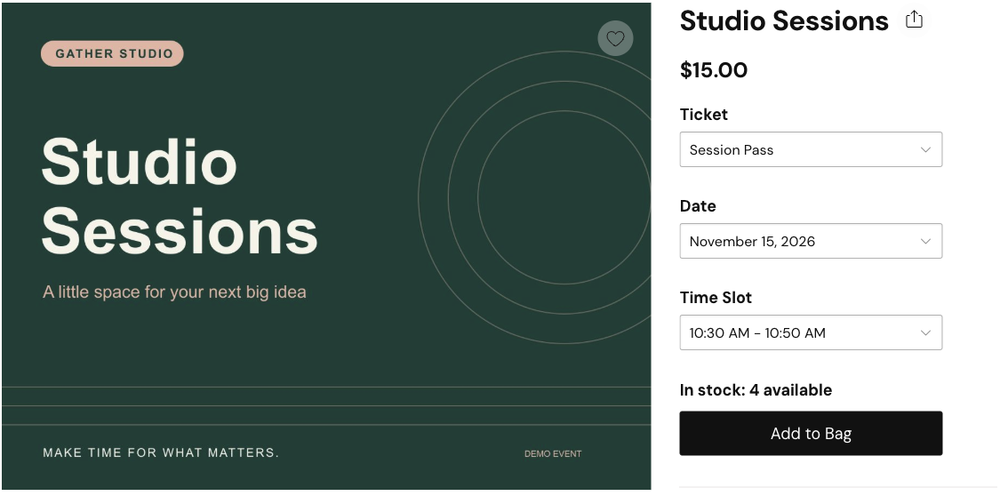
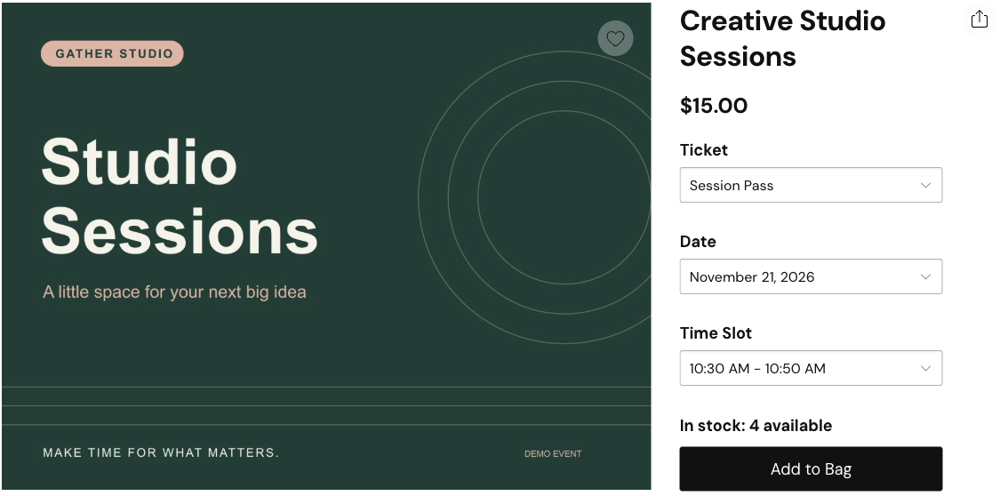
Document Ecwid time-slot setup and verified booking reruns

Changed region(s): [[0.682, 0.0907, 0.961, 0.998], [0.682, 0.0, 0.93, 0.0605], [0.961, 0.0302, 0.992, 0.0605]]

diff --git a/media-review/EXTERNAL_TODO.md b/media-review/EXTERNAL_TODO.md
@@ -75,7 +75,7 @@ Native apps, wallets, physical printing, and device workflows also require the l
 
 ## Additional dependency found during live capture
 
-The October 12 platform-onboarding follow-up refreshed Wix, Ecwid, and WordPress instructions against their integration source. The [Wix listing capture](platform-onboarding/wix-app-market-install.json) records the public install entry point. Current shared Ticket Spot screenshots replace the Wix guide's obsolete GIFs. The [WordPress evidence](platform-onboarding/wordpress-setup.json) records real plugin activation and shortcode parsing in WordPress Playground. Its editor did not complete a reliable Shortcode-block capture within the bounded attempt. Wix editor settings and a completed registration, plus Ecwid authorization, product variations, checkout, and the resulting attendees, still require authenticated demo sites. Instructions and regression checks do not establish that those external purchase flows have been completed.
+The October 12 platform-onboarding follow-up refreshed Wix, Ecwid, and WordPress instructions against their integration source. The [Wix listing capture](platform-onboarding/wix-app-market-install.json) records the public install entry point. Current shared Ticket Spot screenshots replace the Wix guide's obsolete GIFs. The [WordPress evidence](platform-onboarding/wordpress-setup.json) records real plugin activation and shortcode parsing in WordPress Playground. Its editor did not complete a reliable Shortcode-block capture within the bounded attempt. This was the initial capture gap. The October 13 authenticated demos below now cover Wix editor setup and Ecwid authorization, product variations, checkout, persisted attendees, and Ticket Spot email delivery. Wix registration/email verification remains outstanding.
 
 Capture these states when the platform demo accounts are available:
 
@@ -98,7 +98,7 @@ The October 3 isolated Stripe sandbox pass completed the buyer summary and order
 
 ## Additional integration follow-up
 
-Current Ticket Spot setup cards and the RegFox key form are refreshed in the integration directory. OmniSend, RegFox, Ecwid, and Lightspeed R-Series authorization, installation, connected results, and end-to-end verification remain deferred with the unavailable external demo accounts. No credential or connection was created for these captures.
+Current Ticket Spot setup cards and the RegFox key form are refreshed in the integration directory. OmniSend, RegFox, and Lightspeed R-Series authorization, installation, connected results, and end-to-end verification remain deferred with the unavailable external demo accounts. Ecwid was subsequently verified with the authorized demo store; see the October 13 record below. No credential or connection was created for these captures.
 
 ## Remaining Demo account states
 
@@ -131,4 +131,16 @@ The complete retained-media and five-video review list is in [remaining-coverage
 
 Wix Settings → Main → Event Management and a newly created one-time workshop are now captured in [Wix Editor evidence](platform-onboarding/wix-editor.json). The demo website was published with one event widget. Wix registration/email proof remains outstanding.
 
-Ecwid demo store 144038516 is connected and the one-time event was published. Manual-payment order 7C1LG completed as Awaiting Payment, without a charge. Its production webhook saved a cart but no attendee because attendee persistence was not awaited; the confirmation job found zero recipients. [Server PR269](https://github.com/chrismccaw/wix-eventviewer-server/pull/269) fixes this along with quantity counting. Do not use this order as proof of successful Ticket Spot import or delivered email until the fix is deployed and the order is recovered.
+Ecwid demo store 144038516 is connected and the one-time event was published. Manual-payment order 7C1LG completed as Awaiting Payment, without a charge. Its production webhook saved a cart but no attendee because attendee persistence was not awaited; the confirmation job found zero recipients. [Server PR269](https://github.com/chrismccaw/wix-eventviewer-server/pull/269) fixes this along with quantity counting. PR269 is now deployed. This historical order was not recovered and remains unsuitable as successful import or email evidence.
+
+### Ecwid rerun after PR269 deployment
+
+Created **Creative Studio Sessions** for November 21, with 10:00, 10:30, and 11:00 AM Pacific sessions, four places each. Added actual setup and storefront screenshots to the Ecwid guide, plus separate one-time/time-based steps and email troubleshooting.
+
+- **BQ2AL:** two Workshop Pass tickets → exactly two attendees and order-line quantity two. Ticket Spot confirmation delivery recorded at 14:57:06 UTC.
+- **HA647:** one 10:30–10:50 AM Session Pass → one attendee linked to that concrete session. Ticket Spot confirmation delivery recorded at 14:57:50 UTC.
+- Both were manual-payment orders, Awaiting Payment, without a charge.
+
+The rerun exposed two additional defects fixed in [server PR271](https://github.com/chrismccaw/wix-eventviewer-server/pull/271): time-slot variations pointed at the whole day, and imports did not queue attendance/capacity refreshes. The timed demo was republished through the locally fixed publisher before purchasing; its mappings were checked directly. Deploy PR271, then verify remaining capacity and capture the final attendee UI before releasing the revised time-slot demo video. The dedicated capture browser became unresponsive after checkout; attendee and delivery evidence came from scoped, read-only Datastore checks.
+
+Ecwid's native organizer notification remains unverified; it is independent of Ticket Spot's delivered confirmation. The connected Gmail account differs from the configured Ecwid recipient. See [the full evidence record](platform-onboarding/ecwid-demo.json).
